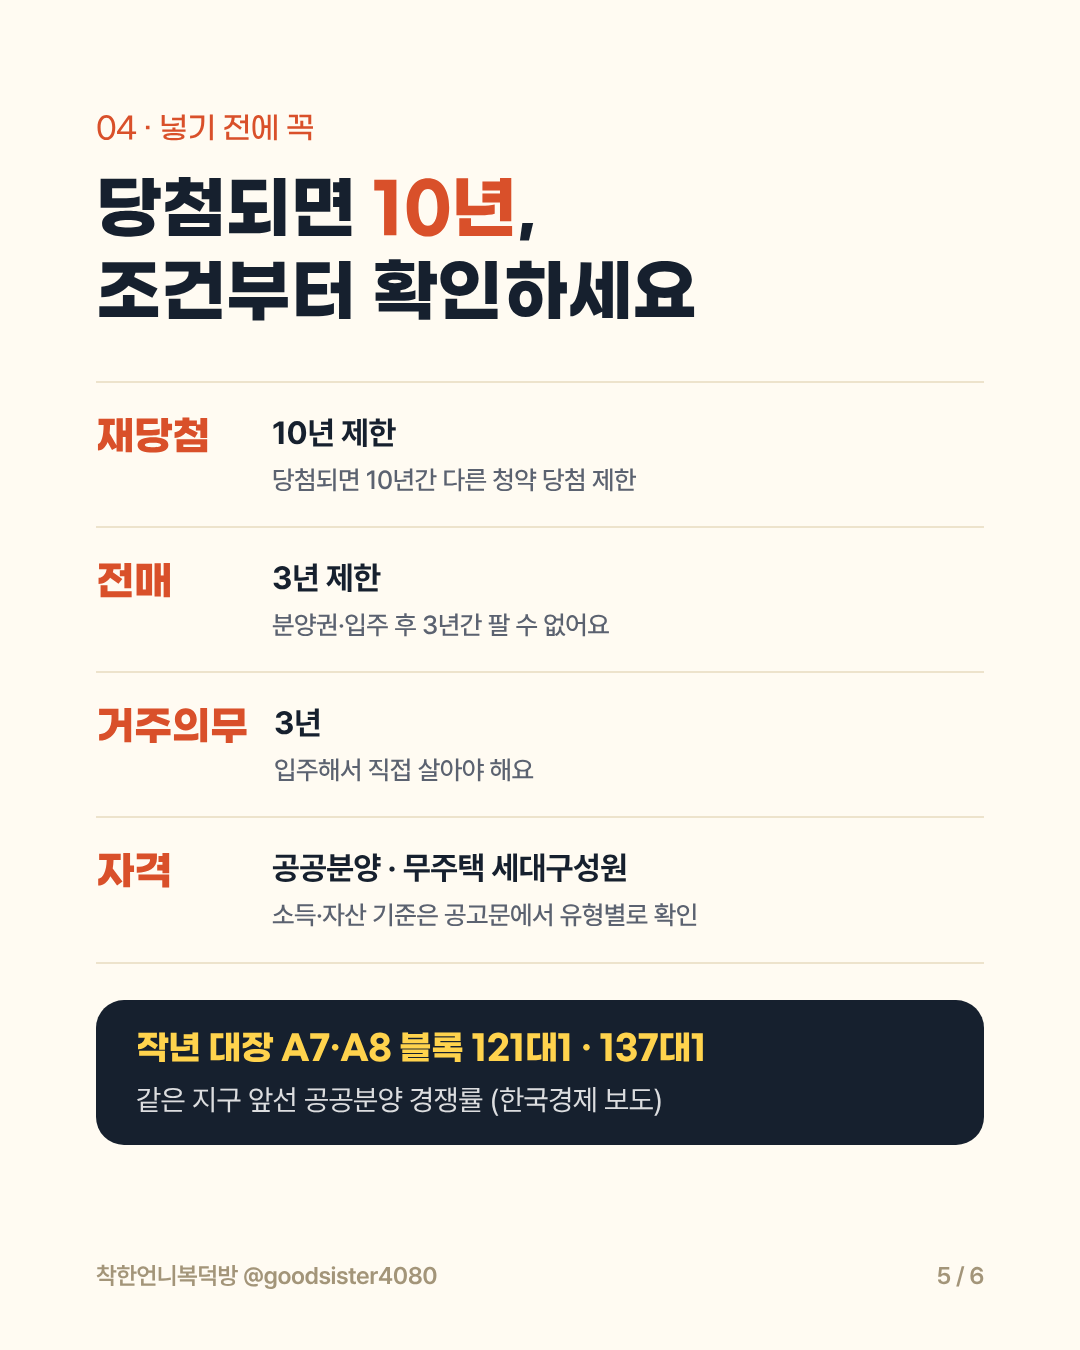
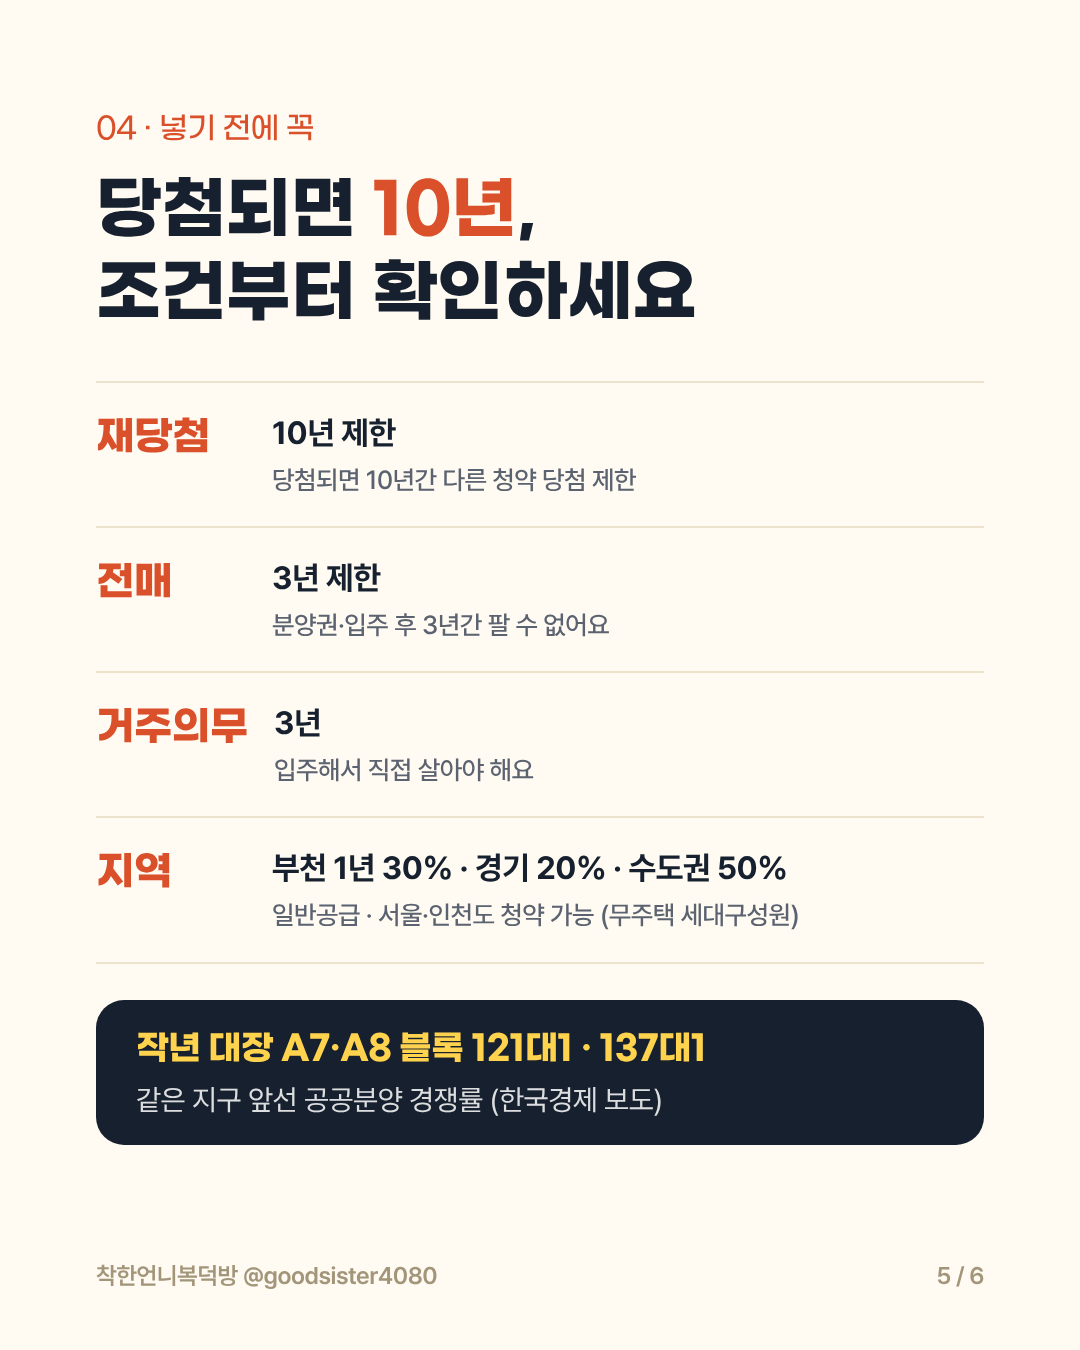
부천대장 card: verify against the official notice (prices, region quota, deposit)
Claude-Session: https://claude.ai/code/session_01TVq9M4GpnT2XRseWGn9WC1

Changed region(s): [[0.2444, 0.6222, 0.7333, 0.6844], [0.0917, 0.6222, 0.1528, 0.6533]]

diff --git a/index.html b/index.html
@@ -105,7 +105,7 @@ footer{margin-top:48px;color:var(--tx3);font-size:12px}
   <div class="cards">
     <div class="card"><h3>🚨 청약 비상 · 부천대장 하우스토리 디센트 · 저장·공유만 · 승인 대기</h3>
       <p><b>3기 신도시 84㎡ 8.5억 · 특공 11/23 · 1순위 11/24 (6장)</b></p>
-      <p><img src="instagram/cards/2026-11-12-buchon/card-1112-1.png" style="width:100%;border-radius:10px;margin-top:8px"></p>
+      <p><img src="instagram/cards/2026-11-12-buchon/card-1112-1.png?v=2" style="width:100%;border-radius:10px;margin-top:8px"></p>
       <p style="margin-top:6px"><a href="instagram/cards/kit.html"><b>업로드 키트</b></a></p></div>
     <div class="card"><h3>🏗 카드뉴스 · 재초환 · <code>재건축</code> · 준비 완료 (대표님 직접 게시 · 릴스 직후)</h3>
       <p><b>집을 안 팔아도 나오는 돈, 재초환 (6장)</b></p>

diff --git a/instagram/cards/kit.html b/instagram/cards/kit.html
@@ -16,8 +16,9 @@ code{background:#FFD84D;padding:2px 8px;border-radius:6px}a.back{font-size:14px}
 부천대장 하우스토리 디센트
 총 548세대 · 분양가상한제
 
-59㎡ 6.2억 · 74㎡ 7.5억 · 84㎡ 8.5억
-(주택형별 최고가)
+59㎡ 6.15억 · 74㎡ 7.54억
+84㎡ 8.54억
+(5층 이상 최고가 · 확장비 별도)
 
 📅 특공 11/23(월)
 📅 1순위 11/24(화)
@@ -27,6 +28,8 @@ code{background:#FFD84D;padding:2px 8px;border-radius:6px}a.back{font-size:14px}
    최근 10억 넘게 거래됐어요
 ✔ 재당첨 10년 · 전매 3년
    · 거주의무 3년 꼭 확인
+✔ 부천 1년 30% · 경기 20%
+   · 수도권 50% (서울·인천 가능)
 ✔ 견본주택 11/13~22
 
 📌 저장하고 청약 날 꺼내 보세요.

diff --git a/instagram/cards/2026-11-12-buchon/README.md b/instagram/cards/2026-11-12-buchon/README.md
@@ -2,7 +2,7 @@
 
 **업로드**: 승인 대기 · 6장 · **DM·노션 없음 (저장·공유 유도만)**
 **확인**: 일정·세대수·분상제 = 청약홈 목록·언론 보도 / 주변 시세 = 국토부 실거래가 (2026.8~11)
-**⚠ 게시 전 공고문 확인**: 분양가(6.2/7.5/8.5억 최고가), 입주 2029년, 재당첨 10년·전매 3년·거주의무 3년
+**✅ 입주자모집공고(2026.11.12) 대조 완료**: 분양가 최고 6.15/7.54/8.54억, 입주 2029.06, 재당첨 10년·전매 3년·거주의무 3년, 지역 30/20/50%, 확장비 별도
 
 ## 캡션
 ```
@@ -12,8 +12,9 @@
 부천대장 하우스토리 디센트
 총 548세대 · 분양가상한제
 
-59㎡ 6.2억 · 74㎡ 7.5억 · 84㎡ 8.5억
-(주택형별 최고가)
+59㎡ 6.15억 · 74㎡ 7.54억
+84㎡ 8.54억
+(5층 이상 최고가 · 확장비 별도)
 
 📅 특공 11/23(월)
 📅 1순위 11/24(화)
@@ -23,6 +24,8 @@
    최근 10억 넘게 거래됐어요
 ✔ 재당첨 10년 · 전매 3년
    · 거주의무 3년 꼭 확인
+✔ 부천 1년 30% · 경기 20%
+   · 수도권 50% (서울·인천 가능)
 ✔ 견본주택 11/13~22
 
 📌 저장하고 청약 날 꺼내 보세요.
